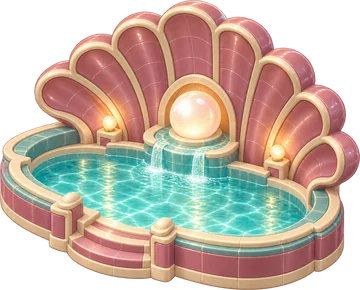
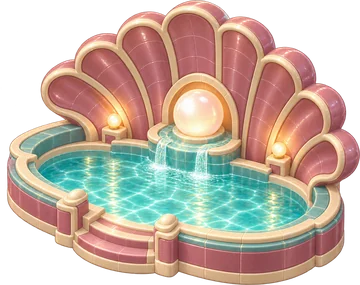
Size rule v1.3 (Aqua / Dreamcore Lv13-17), Dreamcore base anchor, Decorate card art box, version 0.7.46

diff --git a/js/renderer.js b/js/renderer.js
@@ -1,13 +1,13 @@
 /* Skybloom module: renderer (split from index.html in step 12; code unchanged) */
-import { $, CAL, CX, CY, FALLS, G, GUIDE, HR, IMG, ISLAND, L, MOTION, MOTION_A, MOTION_E, SHOW, TH, TW, U, WS, ambient, bkey, center, reduce, same } from './core.js?v=0.7.45';
-import { sbLocked } from './sandbox.js?v=0.7.45';
-import { SFX, vib } from './audio.js?v=0.7.45';
-import { busy, finishMerge, paused, speedRing, tickSpeed } from './game.js?v=0.7.45';
-import { addFxXY, floatText, parts, set_floatText } from './fx.js?v=0.7.45';
-import { updateBubbles } from './bubbles.js?v=0.7.45';
-import { updateFx } from './drawfx.js?v=0.7.45';
-import { badgePos, updateTilt } from './input.js?v=0.7.45';
-import { perfGuard } from './perfguard.js?v=0.7.45';
+import { $, CAL, CX, CY, FALLS, FILL, G, GUIDE, HR, IMG, ISLAND, L, MOTION, MOTION_A, MOTION_E, SHOW, TH, TW, U, WS, ambient, bkey, center, reduce, same } from './core.js?v=0.7.46';
+import { sbLocked } from './sandbox.js?v=0.7.46';
+import { SFX, vib } from './audio.js?v=0.7.46';
+import { busy, finishMerge, paused, speedRing, tickSpeed } from './game.js?v=0.7.46';
+import { addFxXY, floatText, parts, set_floatText } from './fx.js?v=0.7.46';
+import { updateBubbles } from './bubbles.js?v=0.7.46';
+import { updateFx } from './drawfx.js?v=0.7.46';
+import { badgePos, updateTilt } from './input.js?v=0.7.46';
+import { perfGuard } from './perfguard.js?v=0.7.46';
 
 /* ======================================================================
    RENDERER (PixiJS v7)
@@ -73,12 +73,16 @@ export const mix3 = (w, a, b, c) => lerpColor(lerpColor(a, b, w[1] / Math.max(1e
 const WCAP = { 6: .68, 7: .62, 8: .77, 9: .77, 10: .77, 11: .77, 12: .77, 13: .83 };
 /* Lv14-17 (rule v1.1): three caps on the drawn picture, the strictest wins: width <= GCAP.w x tile width, height <= GCAP.h px, and the geometric mean sqrt(w x h) <= GCAP.gm px. */
 const GCAP = { w: 1.10, h: 320, gm: 300 };
+/* Lv13-17 (rule v1.3): sqrt(opaque area) <= MCAP[lv] px, opaque area = drawn w x h x FILL (core.js). Classic is the reference set: MCAP = Classic's own value,
+   so a solid picture (Aqua, Dreamcore) carries no more bulk than the Classic building of that level. Applied last, after every box cap. */
+const MCAP = { 13: 176, 14: 199, 15: 205, 16: 201, 17: 220 };
 function sprite(lv) {
   const k = bkey(lv), im = IMG[k]; if (!im) return null;
   const gb = GUIDE[k];
   if (gb) { let s = .97 * TW / 640;   // ox/oy: offset of the drawn box from the default (centred, bottom at centre+.4TH)
     if (WCAP[lv]) s = Math.min(s, WCAP[lv] * TW / (gb[2] - gb[0]));
     else if (lv >= 14) { const w0 = (gb[2] - gb[0]) * s, h0 = (gb[3] - gb[1]) * s; s *= Math.min(1, GCAP.w * TW / w0, GCAP.h / h0, GCAP.gm / Math.sqrt(w0 * h0)); }
+    if (MCAP[lv] && FILL[k]) s *= Math.min(1, MCAP[lv] / (s * Math.sqrt(FILL[k] * (gb[2] - gb[0]) * (gb[3] - gb[1]))));
     return { im, w: (gb[2] - gb[0]) * s, h: (gb[3] - gb[1]) * s, ox: ((gb[0] + gb[2]) / 2 - 512) * s, oy: (gb[3] - 820) * s - .4 * TH }; }
   const want = (HR[lv] * TH + .4 * TH) * CAL[lv];
   const s = Math.min(want / im.height, (WCAP[lv] || .92) * TW / im.width);

diff --git a/js/core.js b/js/core.js
@@ -71,8 +71,15 @@ export const GUIDE = { b13: [220, 0, 828, 996], b14: [85, 28, 957, 992], b15: [1
   e13: [244, 19, 792, 996], e14: [33, 69, 1001, 977], e15: [116, 55, 915, 958], e16: [202, 23, 836, 1006], e17: [62, 35, 962, 984],
   g13: [241, 35, 783, 992], g14: [131, 92, 910, 989], g15: [111, 64, 915, 984], g16: [113, 122, 913, 947], g17: [67, 138, 962, 956],
   // Dreamcore (export_dreamcore.py): 1254px art scaled by 1024/1254, bottom centre at (512, 970)
-  p13: [147, 2, 877, 970], p14: [84, 20, 940, 970], p15: [141, 28, 883, 970], p16: [105, 14, 919, 970], p17: [72, 32, 952, 970],
-  r13: [101, 12, 923, 970], r14: [152, 28, 872, 970], r15: [219, 26, 805, 970], r16: [122, 17, 902, 970], r17: [132, 46, 892, 970] };
+  p13: [119, 2, 905, 970], p14: [82, 20, 942, 970], p15: [128, 28, 896, 970], p16: [100, 14, 924, 970], p17: [72, 32, 952, 970],
+  r13: [101, 12, 923, 970], r14: [129, 28, 895, 970], r15: [212, 26, 812, 970], r16: [68, 17, 956, 970], r17: [119, 46, 905, 970] };
+// opaque share (alpha mean) of every Lv13-17 picture, for size rule v1.3 in renderer.js sprite(); recompute: python3 03_Sprites/_guides/building_size_table.py --fill
+export const FILL = { b13: 0.479, b14: 0.516, b15: 0.602, b16: 0.509, b17: 0.637,
+  c13: 0.466, c14: 0.51, c15: 0.624, c16: 0.516, c17: 0.633,
+  e13: 0.475, e14: 0.451, e15: 0.392, e16: 0.488, e17: 0.54,
+  g13: 0.551, g14: 0.534, g15: 0.539, g16: 0.572, g17: 0.671,
+  p13: 0.618, p14: 0.68, p15: 0.639, p16: 0.58, p17: 0.67,
+  r13: 0.68, r14: 0.598, r15: 0.675, r16: 0.531, r17: 0.664 };
 // island silhouette in the backgrounds (flat top + rock underside): bubbles pass behind it and cannot be tapped there
 // all five skies are drawn on the exact board geometry (03_Sprites/_guides/guide_BG_island_v2.png: diamond 60..1020 x 760..1240), so no offset is needed
 // silhouette traced from the day sky (rim + rock underside incl. the waterfall mist), world units
@@ -150,7 +157,7 @@ export const loading = Object.entries(ASSETS).map(([k, f]) => load(k, `assets/${
 for (let lv = 1; lv <= 17; lv++) loading.push(load('b' + lv, artSrc(lv)));
 for (let i = 1; i <= 12; i++) loading.push(load('acc' + i, accSrc(i)));
 export let MOTION = {}, MOTION_E = {}, MOTION_A = {};   // Classic / Candy map, and the Eco Campus map (its art has other shapes, so it has its own coordinates)
-for (const lg of ['en', 'ko']) loading.push(fetch(`i18n/${lg}.json?v=0.7.45`).then(r => r.json()).then(j => { I18N[lg] = j; }).catch(() => {}));
+for (const lg of ['en', 'ko']) loading.push(fetch(`i18n/${lg}.json?v=0.7.46`).then(r => r.json()).then(j => { I18N[lg] = j; }).catch(() => {}));
 loading.push(fetch('motion_map.json').then(r => r.json()).then(j => { MOTION = j.buildings || {}; window.__motionDoc = j; }).catch(() => { /* no building motion */ }));
 loading.push(fetch(av('motion_map_eco.json')).then(r => r.json()).then(j => { MOTION_E = j.buildings || {}; }).catch(() => { /* Eco keeps only its overlay effects */ }));
 loading.push(fetch(av('motion_map_aqua.json')).then(r => r.json()).then(j => { MOTION_A = j.buildings || {}; }).catch(() => { /* Aqua keeps only its overlay effects */ }));

diff --git a/js/game.js b/js/game.js
@@ -1,12 +1,12 @@
 /* Skybloom module: game (split from index.html in step 12; code unchanged) */
-import { $, APP_V, DEMO, G, ITEMS, L, NAMES, U, artSrc, bsetId, center, itemName, reduce, same, saveDiscBy, set_G, store, tl, toWorld } from './core.js?v=0.7.45';
-import { SFX, vib } from './audio.js?v=0.7.45';
-import { bumpBadge, hud, overlay, placeState, show, toast } from './ui.js?v=0.7.45';
-import { bloomFx, floatText, mergeFx, rewindFx, tierOf, wrapFx } from './fx.js?v=0.7.45';
-import { R, startDrop } from './renderer.js?v=0.7.45';
-import { rollFor, setIcon, spawnBubble } from './bubbles.js?v=0.7.45';
-import { buildCard } from './screens.js?v=0.7.45';
-import * as TM from './telemetry.js?v=0.7.45';
+import { $, APP_V, DEMO, G, ITEMS, L, NAMES, U, artSrc, bsetId, center, itemName, reduce, same, saveDiscBy, set_G, store, tl, toWorld } from './core.js?v=0.7.46';
+import { SFX, vib } from './audio.js?v=0.7.46';
+import { bumpBadge, hud, overlay, placeState, show, toast } from './ui.js?v=0.7.46';
+import { bloomFx, floatText, mergeFx, rewindFx, tierOf, wrapFx } from './fx.js?v=0.7.46';
+import { R, startDrop } from './renderer.js?v=0.7.46';
+import { rollFor, setIcon, spawnBubble } from './bubbles.js?v=0.7.46';
+import { buildCard } from './screens.js?v=0.7.46';
+import * as TM from './telemetry.js?v=0.7.46';
 
 /* ---------- game flow ---------- */
 /* play time (ms) only runs while the game is on screen and nothing is open over it; speed mode's timer and the action log use it */
@@ -101,7 +101,7 @@ export function addGold(n, why = 'other') {   // why = the ledger reason of the 
   if (!n) return; U.gold += n; store.set('gold', U.gold); TM.gold(n, why);
   const el = $('gold'); el.textContent = U.gold.toLocaleString('en-US'); const p = el.parentElement; p.classList.remove('bump'); void p.offsetWidth; p.classList.add('bump');
 }
-import { Mini } from './minianim.js?v=0.7.45';
+import { Mini } from './minianim.js?v=0.7.46';
 let _cm = null, _rm = null;
 const celMini = () => _cm || (_cm = new Mini($('cel-anim'), 500, 540)), resMini = () => _rm || (_rm = new Mini($('res-anim'), 400, 250));
 function runCelebrations() {

diff --git a/js/main.js b/js/main.js
@@ -1,17 +1,17 @@
 /* Skybloom module: main (split from index.html in step 12; code unchanged) */
-import { EDITOR, G, L, SHOW, U, applyI18n, loading, prepareImages, reduce, set_G, toScreen, toWorld } from './core.js?v=0.7.45';
-import { SND } from './audio.js?v=0.7.45';
-import { fit, hud, show, toast, transition } from './ui.js?v=0.7.45';
-import { addGold, busy, openAd } from './game.js?v=0.7.45';
-import { MAX_PARTS, addFxXY, partCount } from './fx.js?v=0.7.45';
-import { R, WTL, app, initRenderer } from './renderer.js?v=0.7.45';
-import { bubbleAt, inIsland, popBubbleAt, spawnBubble } from './bubbles.js?v=0.7.45';
-import { badgePos, candidates, enableSensor } from './input.js?v=0.7.45';
-import { applySkins } from './shop.js?v=0.7.45';
-import { cardFile } from './screens.js?v=0.7.45';
-import { startEditor } from './editor.js?v=0.7.45';
-import { bind, boot, loaded } from './telemetry.js?v=0.7.45';
-import { ask } from './age.js?v=0.7.45';
+import { EDITOR, G, L, SHOW, U, applyI18n, loading, prepareImages, reduce, set_G, toScreen, toWorld } from './core.js?v=0.7.46';
+import { SND } from './audio.js?v=0.7.46';
+import { fit, hud, show, toast, transition } from './ui.js?v=0.7.46';
+import { addGold, busy, openAd } from './game.js?v=0.7.46';
+import { MAX_PARTS, addFxXY, partCount } from './fx.js?v=0.7.46';
+import { R, WTL, app, initRenderer } from './renderer.js?v=0.7.46';
+import { bubbleAt, inIsland, popBubbleAt, spawnBubble } from './bubbles.js?v=0.7.46';
+import { badgePos, candidates, enableSensor } from './input.js?v=0.7.46';
+import { applySkins } from './shop.js?v=0.7.46';
+import { cardFile } from './screens.js?v=0.7.46';
+import { startEditor } from './editor.js?v=0.7.46';
+import { bind, boot, loaded } from './telemetry.js?v=0.7.46';
+import { ask } from './age.js?v=0.7.46';
 
 bind({ busy, candidates, bubbleAt, inIsland });   // the play-log recorder (telemetry.js) reads these but never changes them
 

diff --git a/js/input.js b/js/input.js
@@ -1,13 +1,13 @@
 /* Skybloom module: input (split from index.html in step 12; code unchanged) */
-import { $, EDITOR, G, L, MASK, TH, TW, U, artSrc, center, reduce, same, tl, toWorld } from './core.js?v=0.7.45';
-import { SFX, ac, music, musicNodes, vib } from './audio.js?v=0.7.45';
-import { blinkItems, hud, overlay, scale, sheet, show, toast, transition } from './ui.js?v=0.7.45';
-import { busy, cancelAd, checkStuck, clearSave, doMerge, doPlace, gameOver, isTarget, newGame, onTap, openAd, resumeGame, saveForLater, saveGame, savedGame, select, tutBlock, useItem } from './game.js?v=0.7.45';
-import { drawn } from './renderer.js?v=0.7.45';
-import { bubbleAt, popBubbleAt } from './bubbles.js?v=0.7.45';
-import { openShop, requestCloseShop } from './shop.js?v=0.7.45';
-import { openCollection, openRanking, openSettings, saveCard, shareCard } from './screens.js?v=0.7.45';
-import * as TM from './telemetry.js?v=0.7.45';
+import { $, EDITOR, G, L, MASK, TH, TW, U, artSrc, center, reduce, same, tl, toWorld } from './core.js?v=0.7.46';
+import { SFX, ac, music, musicNodes, vib } from './audio.js?v=0.7.46';
+import { blinkItems, hud, overlay, scale, sheet, show, toast, transition } from './ui.js?v=0.7.46';
+import { busy, cancelAd, checkStuck, clearSave, doMerge, doPlace, gameOver, isTarget, newGame, onTap, openAd, resumeGame, saveForLater, saveGame, savedGame, select, tutBlock, useItem } from './game.js?v=0.7.46';
+import { drawn } from './renderer.js?v=0.7.46';
+import { bubbleAt, popBubbleAt } from './bubbles.js?v=0.7.46';
+import { openShop, requestCloseShop } from './shop.js?v=0.7.46';
+import { openCollection, openRanking, openSettings, saveCard, shareCard } from './screens.js?v=0.7.46';
+import * as TM from './telemetry.js?v=0.7.46';
 
 /* ---------- tilt (spec §6.6) ---------- */
 export function updateTilt(dt) {

diff --git a/js/sandbox.js b/js/sandbox.js
@@ -1,9 +1,9 @@
 /* Skybloom module: sandbox (shop > Decorate tab): place any building on the showcase garden (SHOW) to check sizes, skins and light. Never touches the game board G.board.
    Edits are a draft: only the Save button (or "Save" when leaving) writes the garden; leaving without saving restores the last saved one. */
-import { $, MASK, SHOW, TH, TW, U, artSrc, center, hasBuilt, store, tl } from './core.js?v=0.7.45';
-import { addFxXY } from './fx.js?v=0.7.45';
-import { drawn } from './renderer.js?v=0.7.45';
-import { Mini } from './minianim.js?v=0.7.45';
+import { $, MASK, SHOW, TH, TW, U, artSrc, center, hasBuilt, store, tl } from './core.js?v=0.7.46';
+import { addFxXY } from './fx.js?v=0.7.46';
+import { drawn } from './renderer.js?v=0.7.46';
+import { Mini } from './minianim.js?v=0.7.46';
 
 /* ponytail: TEST BUILD ONLY. All 17 buildings can be placed; the Silhouette button previews the real rule (locked levels cannot be placed). Set false before a public release. */
 const TEST_ALL = true;
@@ -46,7 +46,7 @@ export function renderPalette(el) {
   // the cards move like the garden (Classic, Candy, Eco; Aqua gets its own motion map later). Locked ones stay a still silhouette.
   for (const m of CARDS) m.destroy(); CARDS = [];
   const pal = el.querySelector('.sb-pal');
-  for (const b of pal.querySelectorAll('.sb-b:not(.lock)')) { const m = new Mini(b.querySelector('.sb-art'), 180, 300, 20, pal); if (m.ok) { m.show(+b.dataset.lv); CARDS.push(m); } }
+  for (const b of pal.querySelectorAll('.sb-b:not(.lock)')) { const m = new Mini(b.querySelector('.sb-art'), 174, 292, 20, pal); if (m.ok) { m.show(+b.dataset.lv); CARDS.push(m); } }
 }
 let CARDS = [];
 /** A palette thumbnail or a tool button was tapped. api = { palette(), toast(text), fold(down) }. Returns true when it was one of ours. */

diff --git a/index.html b/index.html
@@ -220,7 +220,7 @@ body {
 .sb-b { flex: none; width: 198px; height: 100%;   /* 4.5 cards in view: the half card shows there is more to scroll */
    border-radius: 26px; border: 4px solid var(--rim); background: rgba(255, 255, 255, .85); position: relative; display: flex; align-items: center; justify-content: center; padding: 8px; box-sizing: border-box; }
 .sb-b img { max-width: 100%; max-height: 100%; object-fit: contain; }
-.sb-art { position: absolute; inset: 8px; display: flex; align-items: center; justify-content: center; }   /* the card art: a still picture, or the moving building drawn over it */
+.sb-art { position: absolute; inset: 8px; display: flex; align-items: flex-end; justify-content: center; }   /* card rule: every card has the same 174x292 art box (sandbox.js Mini); the building, moving parts included, fits it whole without stretching, bottom-aligned and centred; a locked card's still picture follows the same rule */
 .sb-b.lock .sb-art img { filter: brightness(0) opacity(.45); }
 .sb-b b { position: absolute; left: 12px; top: 8px; font: 900 30px/1 var(--font); color: var(--leaf-ink); }
 .sb-b.on { background: linear-gradient(var(--leaf-2), var(--leaf-ink)); border-color: #fff; }
@@ -602,4 +602,4 @@ body {
 <script src="logic.js?v=0.5.1"></script>
 <script src="statehash.js?v=0.6.6"></script>   <!-- play-log state hash (13-1); the same file runs in node -->
 <script src="auth.js?v=0.5.1"></script>   <!-- bump the version when logic.js changes so phones do not keep an old copy -->
-<script type="module" src="js/main.js?v=0.7.45"></script>   <!-- modules: bump the ?v= here and in every import (js/*.js) together -->
+<script type="module" src="js/main.js?v=0.7.46"></script>   <!-- modules: bump the ?v= here and in every import (js/*.js) together -->

diff --git a/js/screens.js b/js/screens.js
@@ -1,14 +1,14 @@
 /* Skybloom module: screens (split from index.html in step 12; code unchanged) */
-import { $, APP_V, VER, G, IMG, L, NAMES, NAMES_BASE, NAMES_BY, SET_PRE, TREASURES, U, accSrc, applyI18n, artSrc, bkey, hasBuilt, lang, loadSkinArt, store, tl } from './core.js?v=0.7.45';
-import { SKINS, setArt } from './shop.js?v=0.7.45';
-import { Mini } from './minianim.js?v=0.7.45';
-import { music } from './audio.js?v=0.7.45';
-import { fitText, hud, overlay, show, toast, transition } from './ui.js?v=0.7.45';
-import { localDate, newGame, tutStep } from './game.js?v=0.7.45';
-import { app } from './renderer.js?v=0.7.45';
-import { enableSensor, sensorOn } from './input.js?v=0.7.45';
-import * as TM from './telemetry.js?v=0.7.45';
-import { age13 } from './age.js?v=0.7.45';
+import { $, APP_V, VER, G, IMG, L, NAMES, NAMES_BASE, NAMES_BY, SET_PRE, TREASURES, U, accSrc, applyI18n, artSrc, bkey, hasBuilt, lang, loadSkinArt, store, tl } from './core.js?v=0.7.46';
+import { SKINS, setArt } from './shop.js?v=0.7.46';
+import { Mini } from './minianim.js?v=0.7.46';
+import { music } from './audio.js?v=0.7.46';
+import { fitText, hud, overlay, show, toast, transition } from './ui.js?v=0.7.46';
+import { localDate, newGame, tutStep } from './game.js?v=0.7.46';
+import { app } from './renderer.js?v=0.7.46';
+import { enableSensor, sensorOn } from './input.js?v=0.7.46';
+import * as TM from './telemetry.js?v=0.7.46';
+import { age13 } from './age.js?v=0.7.46';
 
 /* ---------- ranking (v0.4 §6.3): no server yet, so only this device's best and an honest empty state ---------- */
 export function openRanking(tab = 'normal') {   // two boards: Normal and Speed mode

diff --git a/js/shop.js b/js/shop.js
@@ -1,14 +1,14 @@
 /* Skybloom module: shop (split from index.html in step 12; code unchanged) */
-import { $, av, CX, CY, IMG, ITEMS, lang, NAMES, NAMES_BASE, NAMES_BY, SET_PRE, TW, U, loadSkinArt, reduce, set_NAMES, store, tl, toWorld } from './core.js?v=0.7.45';
-import { SFX, vib } from './audio.js?v=0.7.45';
-import { hud, overlay, sheet, toast } from './ui.js?v=0.7.45';
-import { addGold } from './game.js?v=0.7.45';
-import { addFxXY } from './fx.js?v=0.7.45';
-import { spawnBubble } from './bubbles.js?v=0.7.45';
-import { renderPalette, sbBegin, sbClick, sbDirty, sbOff, sbRefresh, sbRevert, sbSave, sbShotOff, sbTap } from './sandbox.js?v=0.7.45';
-import { R, tex } from './renderer.js?v=0.7.45';
-import { down } from './input.js?v=0.7.45';
-import * as TM from './telemetry.js?v=0.7.45';
+import { $, av, CX, CY, IMG, ITEMS, lang, NAMES, NAMES_BASE, NAMES_BY, SET_PRE, TW, U, loadSkinArt, reduce, set_NAMES, store, tl, toWorld } from './core.js?v=0.7.46';
+import { SFX, vib } from './audio.js?v=0.7.46';
+import { hud, overlay, sheet, toast } from './ui.js?v=0.7.46';
+import { addGold } from './game.js?v=0.7.46';
+import { addFxXY } from './fx.js?v=0.7.46';
+import { spawnBubble } from './bubbles.js?v=0.7.46';
+import { renderPalette, sbBegin, sbClick, sbDirty, sbOff, sbRefresh, sbRevert, sbSave, sbShotOff, sbTap } from './sandbox.js?v=0.7.46';
+import { R, tex } from './renderer.js?v=0.7.46';
+import { down } from './input.js?v=0.7.46';
+import * as TM from './telemetry.js?v=0.7.46';
 
 /* ---------- shop (v0.4 §5.2): gold purchases work, cash items are a mock-up; skin art made in phase 8 ---------- */
 export const SKINS = {

diff --git a/js/minianim.js b/js/minianim.js
@@ -3,8 +3,8 @@
    All of them share ONE extra WebGL renderer (phones drop the oldest WebGL context when there are too many, and the oldest is the garden):
    each frame a mini building is drawn by the shared renderer and copied into its own 2D canvas. One loop, running only while one is on screen.
    If the shared renderer cannot be made, the plain picture stays (the <img> the host already holds). */
-import { $, bkey, reduce } from './core.js?v=0.7.45';
-import { makeInst, updateInst } from './renderer.js?v=0.7.45';
+import { $, bkey, reduce } from './core.js?v=0.7.46';
+import { makeInst, updateInst } from './renderer.js?v=0.7.46';
 
 const MAXW = 520, MAXH = 560;   // the largest mini (New Building! is 500 x 540)
 let SR = null, RES = 1, failed = false;
@@ -46,7 +46,8 @@ export class Mini {
     if (this.ok) {
       this.cv = document.createElement('canvas'); this.cv.width = Math.round(w * RES); this.cv.height = Math.round(h * RES);
       this.cv.style.cssText = 'position:absolute;inset:0;width:100%;height:100%;pointer-events:none'; this.ctx = this.cv.getContext('2d');
-      host.style.position = host.style.position || 'relative'; host.appendChild(this.cv); MINIS.add(this);
+      if (getComputedStyle(host).position === 'static') host.style.position = 'relative';   // only a static host: an absolute one (Decorate card art) keeps its box
+      host.appendChild(this.cv); MINIS.add(this);
     }
   }
   live() {

diff --git a/js/bubbles.js b/js/bubbles.js
@@ -1,11 +1,11 @@
 /* Skybloom module: bubbles (split from index.html in step 12; code unchanged) */
-import { $, G, ITEMS, L, TREASURES, U, WS, accSrc, islandAt, store, tl, toScreen, toWorld } from './core.js?v=0.7.45';
-import { SFX, vib } from './audio.js?v=0.7.45';
-import { bumpBadge, hud, itemXY, toast } from './ui.js?v=0.7.45';
-import { addGold, gainTreasure, stamp, tutBubble, tutEnd } from './game.js?v=0.7.45';
-import { addFxXY, floatText } from './fx.js?v=0.7.45';
-import { ADD, R, genTextures, hsl, lerpColor, mix3, tex } from './renderer.js?v=0.7.45';
-import * as TM from './telemetry.js?v=0.7.45';
+import { $, G, ITEMS, L, TREASURES, U, WS, accSrc, islandAt, store, tl, toScreen, toWorld } from './core.js?v=0.7.46';
+import { SFX, vib } from './audio.js?v=0.7.46';
+import { bumpBadge, hud, itemXY, toast } from './ui.js?v=0.7.46';
+import { addGold, gainTreasure, stamp, tutBubble, tutEnd } from './game.js?v=0.7.46';
+import { addFxXY, floatText } from './fx.js?v=0.7.46';
+import { ADD, R, genTextures, hsl, lerpColor, mix3, tex } from './renderer.js?v=0.7.46';
+import * as TM from './telemetry.js?v=0.7.46';
 
 /* ---------- bubbles (spec §4) ---------- */
 const BC = L.CONFIG.bubbles;

diff --git a/js/telemetry.js b/js/telemetry.js
@@ -3,8 +3,8 @@
    the game rules (logic.js) are untouched — the public rule functions are wrapped from here to see their results.
    Queue = IndexedDB 'skybloom-telemetry'. Export = one zip (events.ndjson + manifest.json + device_contexts.json + snapshots.json).
    Imports only core.js and age.js, so every other module may import this one without a cycle; main.js hands over the few functions it needs (bind). */
-import { $, APP_V, G, L, U, tl, toWorld } from './core.js?v=0.7.45';
-import { age13 } from './age.js?v=0.7.45';   // child mode (under 13, or age not answered yet): nothing is recorded, asked or stored here
+import { $, APP_V, G, L, U, tl, toWorld } from './core.js?v=0.7.46';
+import { age13 } from './age.js?v=0.7.46';   // child mode (under 13, or age not answered yet): nothing is recorded, asked or stored here
 
 const CONSENT_V = 'c1', PROTOCOL_V = 'p1', LSK = 'skybloom.tm.', ITEMS = ['rewind', 'pop', 'drop'];
 const CAP = 20000, LIMIT_MS = +((/[?&]tlimit=(\d+)/.exec(location.search) || [])[1] || 1200000);
